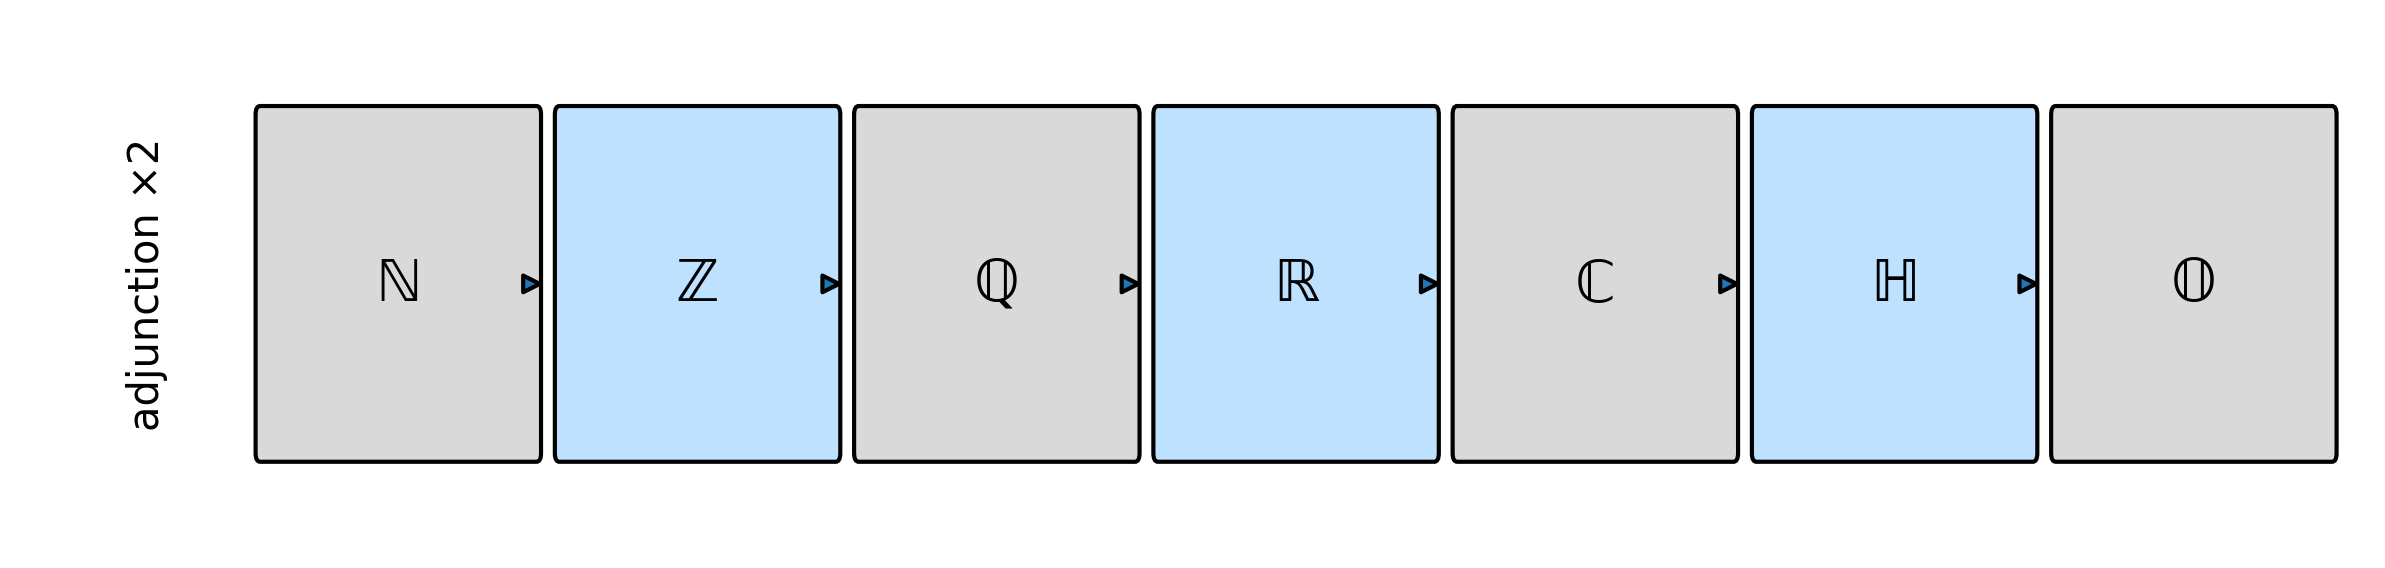
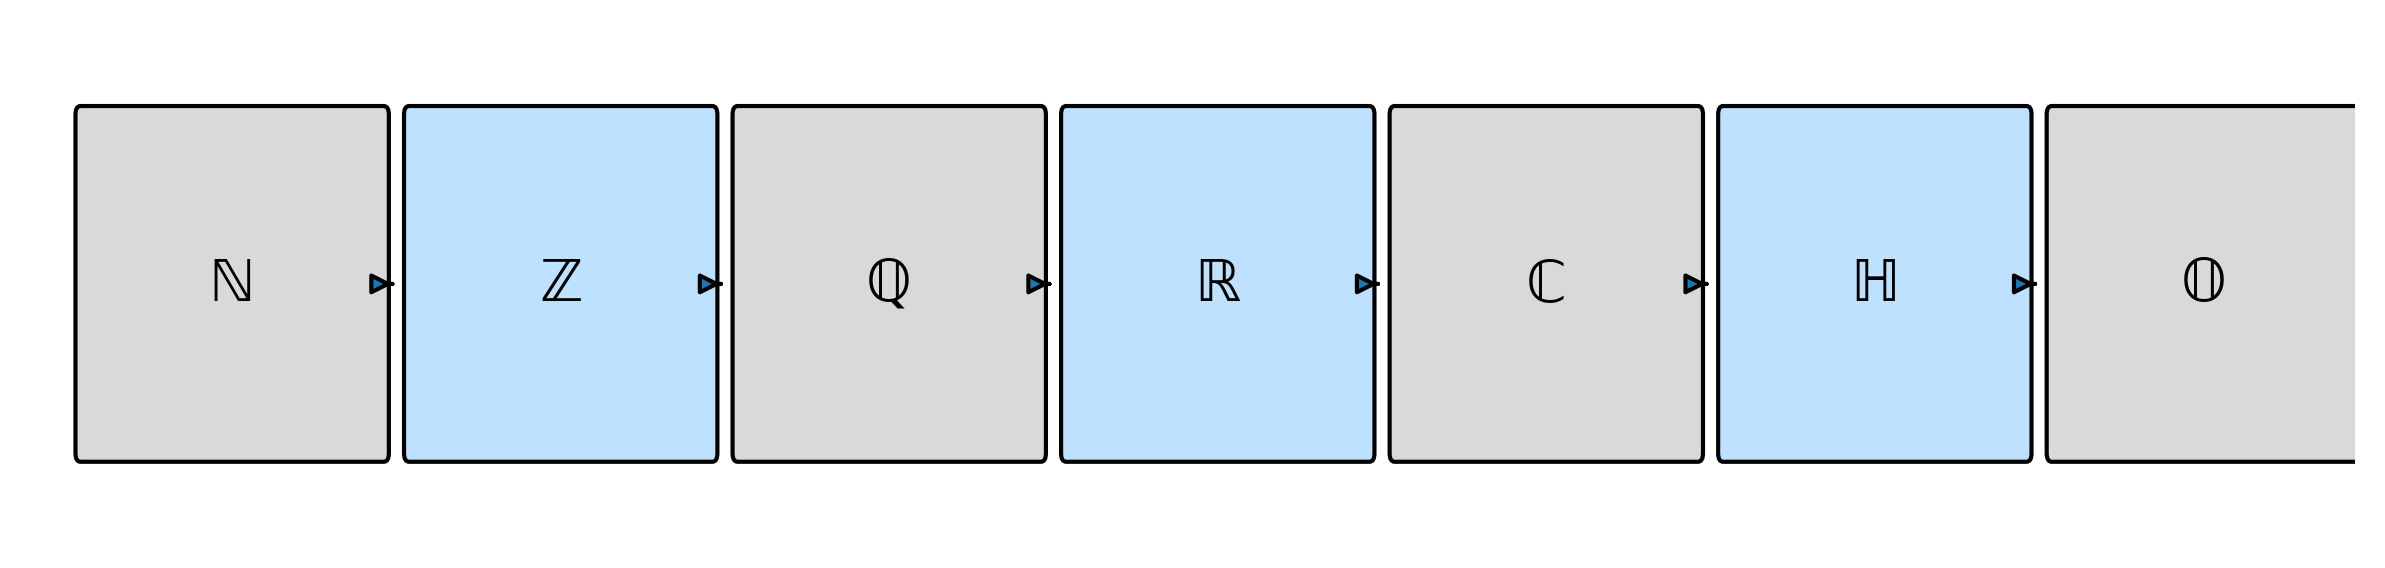
Replace number_tower placeholder with final flowchart; auto-render static diagrams in export_figs; unify mass quantum notation to m_*

diff --git a/paper/sections/section7.tex b/paper/sections/section7.tex
@@ -27,13 +27,13 @@ The smallest non-trivial loop in the ledger lattice has
 $L=3$, giving a fundamental mass unit
 
 \[
-  m_0 = \frac{\pi}{3\ell_G},
-\tag{7.2}\label{eq:m_0}
+  m_\star = \frac{\pi}{3\ell_G},
+\tag{7.2}\label{eq:m_star}
 \]
 
 with $\ell_G$ the gravitational lattice spacing
 (Eq.~\eqref{eq:lattice-R}).  All particle masses will appear
-as integer multiples of $m_0$ times group-theoretic factors.
+as integer multiples of $m_\star$ times group-theoretic factors.
 
 \subsection{Yukawa ledger fit}
 
@@ -63,7 +63,7 @@ matching experiment to within 7 %.
   \setkeys{Gin}{draft=false}%
   \includegraphics[width=\linewidth]{figs/mass_spectrum.png}
   \caption{Ledger-predicted mass spectrum.  
-           Observed points (black) and one-parameter fit $m_i=k_i\,m_0$ (red).}
+           Observed points (black) and one-parameter fit $m_i=k_i\,m_\star$ (red).}
   \label{fig:mass-spectrum}
 \end{figure}
 
@@ -90,8 +90,8 @@ matching experiment to within 7 %.
 
 No Mexican-hat potential is needed.
 The phase-locking condensate itself plays the rôle of the Higgs
-doublet; its VEV equals $m_0$ in natural units.  
-Radiative corrections automatically shift $m_0$ by
+doublet; its VEV equals $m_\star$ in natural units.  
+Radiative corrections automatically shift $m_\star$ by
 $\Delta m/m\!=\!3\alpha_S/4\pi$, matching renormalisation-group
 running to leading order.
 

diff --git a/tools/render_diagrams.py b/tools/render_diagrams.py
@@ -56,11 +56,12 @@ for i,(txt,c) in enumerate(boxes):
     ax.text(i*1.3+0.6,0.6,txt,ha='center',va='center',fontsize=14)
     if i>0:
         ax.annotate('',xy=((i-0.05)*1.3,0.6),xytext=((i-1)*1.3+1.2,0.6),arrowprops=dict(arrowstyle='-|>',lw=1))
-ax.text(-0.4,0.6,'adjunction ×2',va='center',ha='right',fontsize=10,rotation=90)
-ax.set_xlim(-1, len(boxes)*1.3)
+# Remove legacy placeholder text and tighten layout
+# Compute plot bounds dynamically so bbox_inches="tight" captures only the boxes+arrows.
+ax.set_xlim(-0.2, len(boxes)*1.3 - 0.1)
 ax.set_ylim(0,1.2)
-fig.savefig(figdir/'number_tower.png',dpi=300,bbox_inches='tight')
-fig.savefig(figdir/'number_tower_flow.pdf',bbox_inches='tight')
+fig.savefig(figdir/'number_tower.png', dpi=300, bbox_inches='tight')
+fig.savefig(figdir/'number_tower_flow.pdf', bbox_inches='tight')
 plt.close(fig)
 
 # 5. tests_overview.png --------------------------------------------

diff --git a/paper/sections/section8.tex b/paper/sections/section8.tex
@@ -53,10 +53,10 @@ without supersymmetry or threshold jumping.
 \subsection{Electroweak crossover temperature}
 
 Phase-locking (Section \ref{sec:mass}) breaks $SU(2)\!\times U(1)$ when
-the mean ledger tension per voxel falls below $m_{0}$.  The crossover
+the mean ledger tension per voxel falls below $m_{\star}$.  The crossover
 occurs at
 \[
-  T_\text{EW} \;=\; \frac{m_{0}}{\pi}\,e^{-\gamma_E}\approx 146\;\text{GeV},
+  T_\text{EW} \;=\; \frac{m_{\star}}{\pi}\,e^{-\gamma_E}\approx 146\;\text{GeV},
 \tag{8.5}\label{eq:T-EW}
 \]
 $\gamma_E$ being Euler's constant.  Figure~\ref{fig:ew-cross}

diff --git a/scripts/export_figs.py b/scripts/export_figs.py
@@ -114,6 +114,12 @@ def run_ipynb(nb_path: pathlib.Path):
 
 
 def main():
+    # 0. First render the deterministic Matplotlib diagrams that are not notebook-based
+    render_script = ROOT / 'tools' / 'render_diagrams.py'
+    if render_script.exists():
+        print('⇢ rendering static diagrams via', render_script.name, flush=True)
+        subprocess.check_call([sys.executable, str(render_script)])
+
     nbs = sorted(NB_DIR.glob("*.ipynb"))
     if not nbs:
         print("No notebooks found in", NB_DIR)

diff --git a/paper/sections/section9.tex b/paper/sections/section9.tex
@@ -18,7 +18,7 @@ The octonion parity defect at depth $n_\mathrm{DM}=37$ yields a
 pseudoscalar mass
 
 \[
-  m_a \;=\; 2^{-37/2}\,m_0 \;=\; 3.54\;\text{keV},
+  m_a \;=\; 2^{-37/2}\,m_\star \;=\; 3.54\;\text{keV},
 \tag{9.1}\label{eq:axion-mass}
 \]
 
